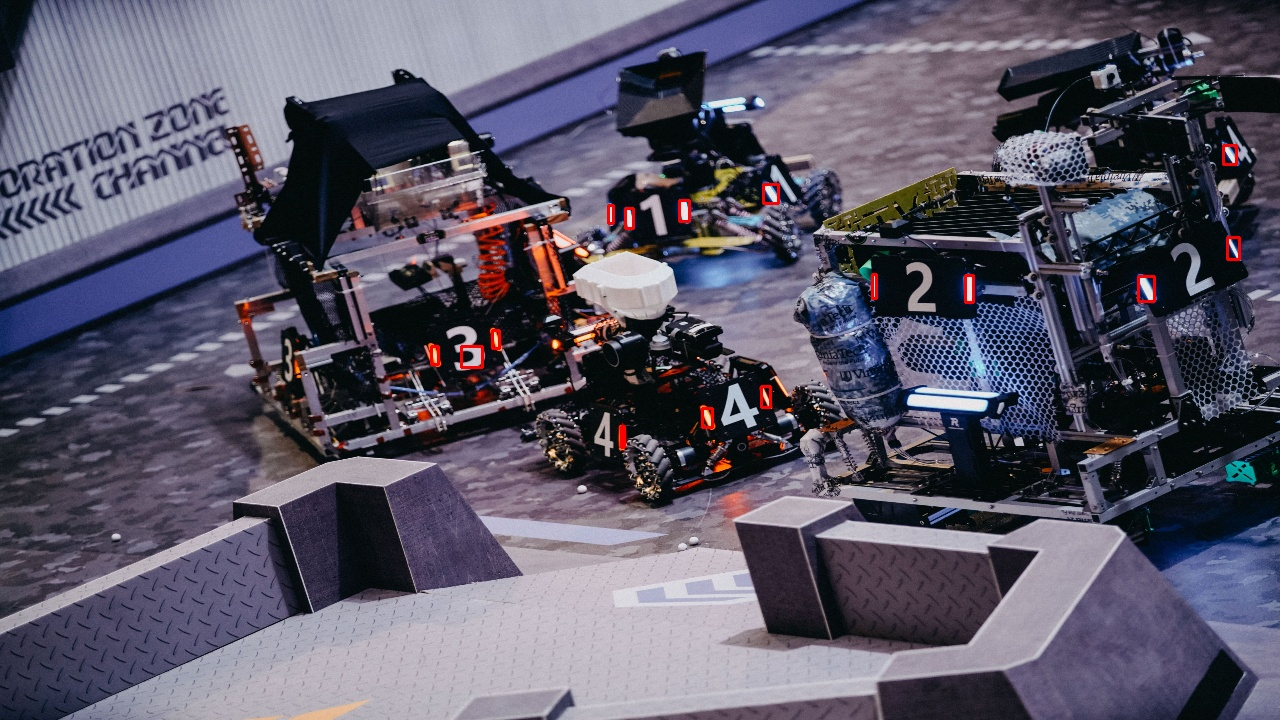
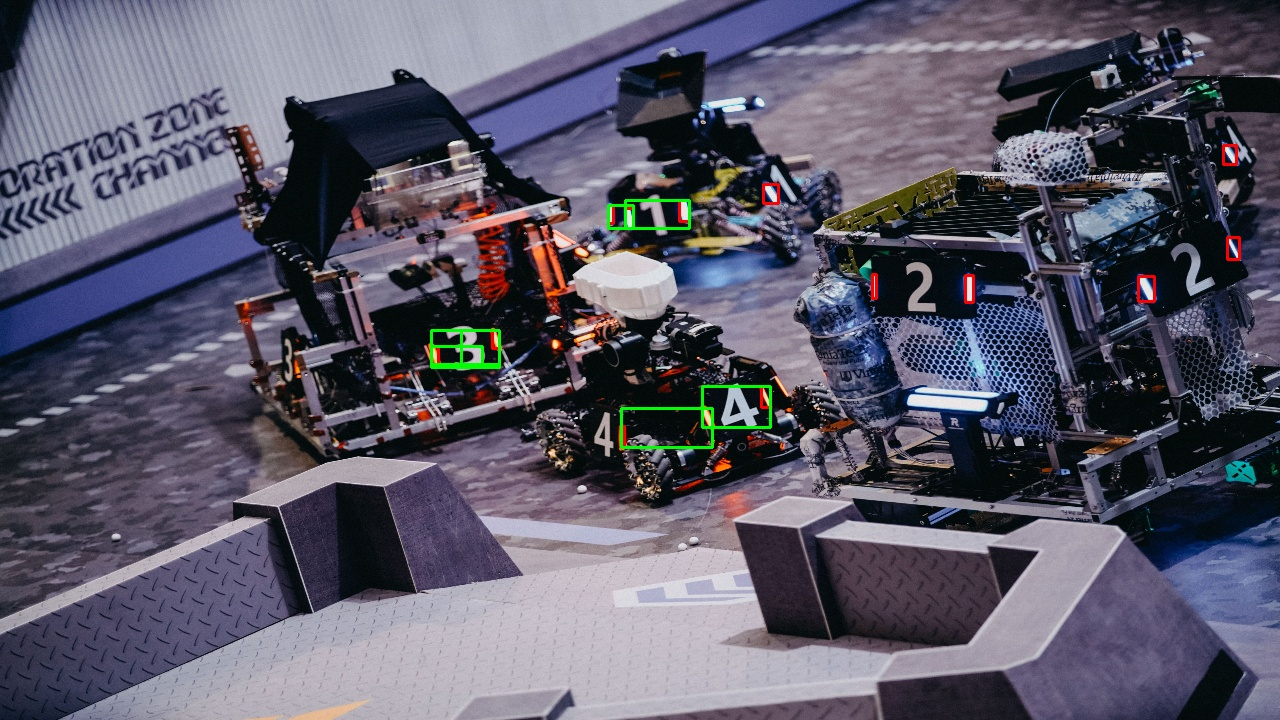
add MSER and to do list

Changed region(s): [[0.4688, 0.5194, 0.625, 0.6417], [0.4688, 0.275, 0.5625, 0.3361], [0.3125, 0.4583, 0.4062, 0.5194]]

diff --git a/armor/include/MSER/MSER.cpp b/armor/include/MSER/MSER.cpp
@@ -1,3 +1,18 @@
+#ifdef USE_NEW_CODE
+#undef USE_NEW_CODE
+#endif
+
+#ifndef USE_NEW_CODE
+#define USE_NEW_CODE //如果保留这一行,则使用新代码; 如果注释掉这一行,则使用旧代码
+#endif
+
+#ifdef DEBUG
+#undef DEBUG
+#endif
+
+#ifndef DEBUG
+// #define DEBUG //在程序中用 #ifdef DEBUG 与 #endif 将debug代码块框起来,实现debug输出 
+#endif
 
 #include <opencv2/opencv.hpp>
 #include <iostream>
@@ -5,6 +20,7 @@
 #include "proportion_thresh.hpp"
 #include "other/include/timer.hpp"
 
+#ifdef USE_NEW_CODE //新代码在下面
 namespace sp
 {
 
@@ -21,6 +37,52 @@ float iou(const cv::Rect& lhs, const cv::Rect& rhs)
 		return static_cast<float>(inner_area) / (lhs.area() + rhs.area() - inner_area);
 }
 
+bool bboxes_armor_isok(const cv::Rect& rect_l, const cv::Rect& rect_r)
+{
+	const double egde_l = std::min(rect_l.x, rect_r.x);
+	const double egde_r = std::max(rect_l.x+rect_l.width, rect_r.x+rect_r.width);
+	// const double egde_d = std::min(rect_l.y-rect_l.height, rect_r.y-rect_r.height);
+	// const double egde_u = std::max(rect_l.y, rect_r.y);
+	const double egde_u = std::max(rect_l.y+rect_l.height, rect_r.y+rect_r.height);
+	const double egde_d = std::min(rect_l.y, rect_r.y);
+	
+	const double bbox_armor_width = egde_r - egde_l;
+	const double bbox_armor_height = egde_u - egde_d;
+
+	// 判断是否为装甲板
+	if(bbox_armor_height<100 && bbox_armor_width<100)
+	{
+		if(bbox_armor_height/bbox_armor_width<1.2 
+		&& bbox_armor_height/bbox_armor_width>0.3)
+		{
+			return true;
+		}
+		// else if (bbox_armor_width/bbox_armor_height<1.2 
+		// && bbox_armor_width/bbox_armor_height>0.3)
+		// {
+		// 	return true;
+		// }
+		else return false;
+	}
+	else return false;
+}
+
+cv::Rect get_armor(const cv::Rect& rect_l, const cv::Rect& rect_r)
+{
+	const int egde_l = std::min(rect_l.x, rect_r.x);
+	const int egde_r = std::max(rect_l.x+rect_l.width, rect_r.x+rect_r.width);
+	// const int egde_d = std::min(rect_l.y-rect_l.height, rect_r.y-rect_r.height);
+	// const int egde_u = std::max(rect_l.y, rect_r.y);
+	const double egde_u = std::max(rect_l.y+rect_l.height, rect_r.y+rect_r.height);
+	const double egde_d = std::min(rect_l.y, rect_r.y);
+	
+	const int bbox_armor_width = egde_r - egde_l;
+	const int bbox_armor_height = egde_u - egde_d;
+
+	cv::Rect armor(egde_l, egde_d, bbox_armor_width, bbox_armor_height);
+	return armor;
+}
+
 }
 
 int main()
@@ -35,16 +97,11 @@ int main()
 	auto mser = cv::MSER::create();
 	std::vector<std::vector<cv::Point>> contours;
 	std::vector<cv::Rect>               bboxes;
+	std::vector<cv::Rect>               bboxes_light;
+	std::vector<cv::Rect>               bboxes_armor;
 
 	mser->detectRegions(mat, contours, bboxes);
 	std::cout << "All: " << bboxes.size() << " bboxes" << '\n';
-	
-	//输出二值化后的图
-	// std::string bboxes_size_str = std::to_string(bboxes.size());
-	// cv::imshow("Origin: "+bboxes_size_str+" bboxes", mat);
-	// cv::waitKey(0);
-	
-	// std::cin.get(); 
 
 	//重新读入彩色图像
 	auto mat_multicolor = cv::imread("../image/test_image.jpg");
@@ -52,11 +109,11 @@ int main()
 
 	std::vector<int> drawed_rects;
 	drawed_rects.reserve(bboxes.size() / 4);
+	bboxes_light.reserve(drawed_rects.size());
 
 	double bbox_proportion_thresh_max = 5.0; //设定bbox的高宽比上阈值
 	double bbox_proportion_thresh_min = 1.0; //设定bbox的高宽比下阈值
-	// double bbox_proportion_thresh_min = 1.00000000000000012; //(多一点不行，少一点也不行）设定bbox的高宽比上阈值
-
+	
 	//画矩形	
 	int cnt = 0;
 	if (!bboxes.empty())
@@ -93,11 +150,30 @@ int main()
 		else if(bboxes[i].height/bboxes[i].width < bbox_proportion_thresh_min);
 		else
 		{
+			// 画灯条矩形
 			cv::rectangle(mat_multicolor, bboxes[i], {0, 0, 255}, 2);
 			drawed_rects.push_back(i);
 			++cnt;
+			bboxes_light.push_back(bboxes[i]);
 		}		
 	}
+
+	for (int k = 0; k < bboxes_light.size(); k++)
+	{
+		bool skip_light = false;
+		for (int l=0;l<bboxes_light.size();l++)
+			if (skip_light = sp::bboxes_armor_isok(bboxes_light[k], bboxes_light[l]) && l!=k)// 筛选条件
+			{
+				bboxes_armor.push_back(sp::get_armor(bboxes_light[k], bboxes_light[l]));
+			}
+	}
+
+for (int m=0;m<bboxes_armor.size();m++)
+{
+	// 画装甲板矩形
+	cv::rectangle(mat_multicolor, bboxes_armor[m], {0, 255, 0}, 2);
+}
+			
 
 	std::string cnt_str = std::to_string(cnt);	
 	std::cout << "Answer: "+cnt_str+" bboxes" << '\n';
@@ -105,9 +181,15 @@ int main()
 	// std::cin.get();
 	cv::imwrite("../image/ans.jpg", mat_multicolor);
 
-	//输出带有bboxes的彩色原图
-	// cv::imshow("Answer: "+cnt_str+" bboxes", mat_multicolor);
-	// cv::waitKey(0);
-
 	std::cout << "程序运行时间：" << timer.get() << std::endl;
 }
+
+#else //旧代码在下面
+
+int main()
+{
+
+    return 0;
+}
+
+#endif

diff --git a/To_do.md b/To_do.md
@@ -1,0 +1,19 @@
+# To Do List
+
+## 总任务
+
+- 在main函数中打印每次自瞄单帧while所需时间
+- 分类器识别正确的1000张装甲板的截图——imwrite
+- 在11月底读完上一届的代码并用doxygen注释生成一个README说明文件
+
+|时间|任务|备注|完成度|
+|:-:|:-:|:-:|:-:|
+|2019.10.28|将MSER加到main.cpp中|MSER.cpp-->MSER.hpp|
+|2019.10.28|（优先）用垃圾摄像头拍一段装甲板的视频|1.画面主要由一个移动的装甲板构成，在背景中有其它固定的装甲板，背景中的装甲板也要被识别|
+|2019.10.28|（优先）用垃圾摄像头拍一段装甲板的视频|2.拍摄视频时将曝光调低，图像中尽量只有灯条，隐约看到装甲板数字（减少MSER识别时间）：参考上交实例图像|
+|2019.10.28|在MSER中使用hsv二值化和旋转矩形优化装甲板识别结果|
+|2019.10.29|学习npn单目测距原理+求位姿|分类器或者测距做一个就行|
+
+## 有时间了再做
+
+- 多线程并发
